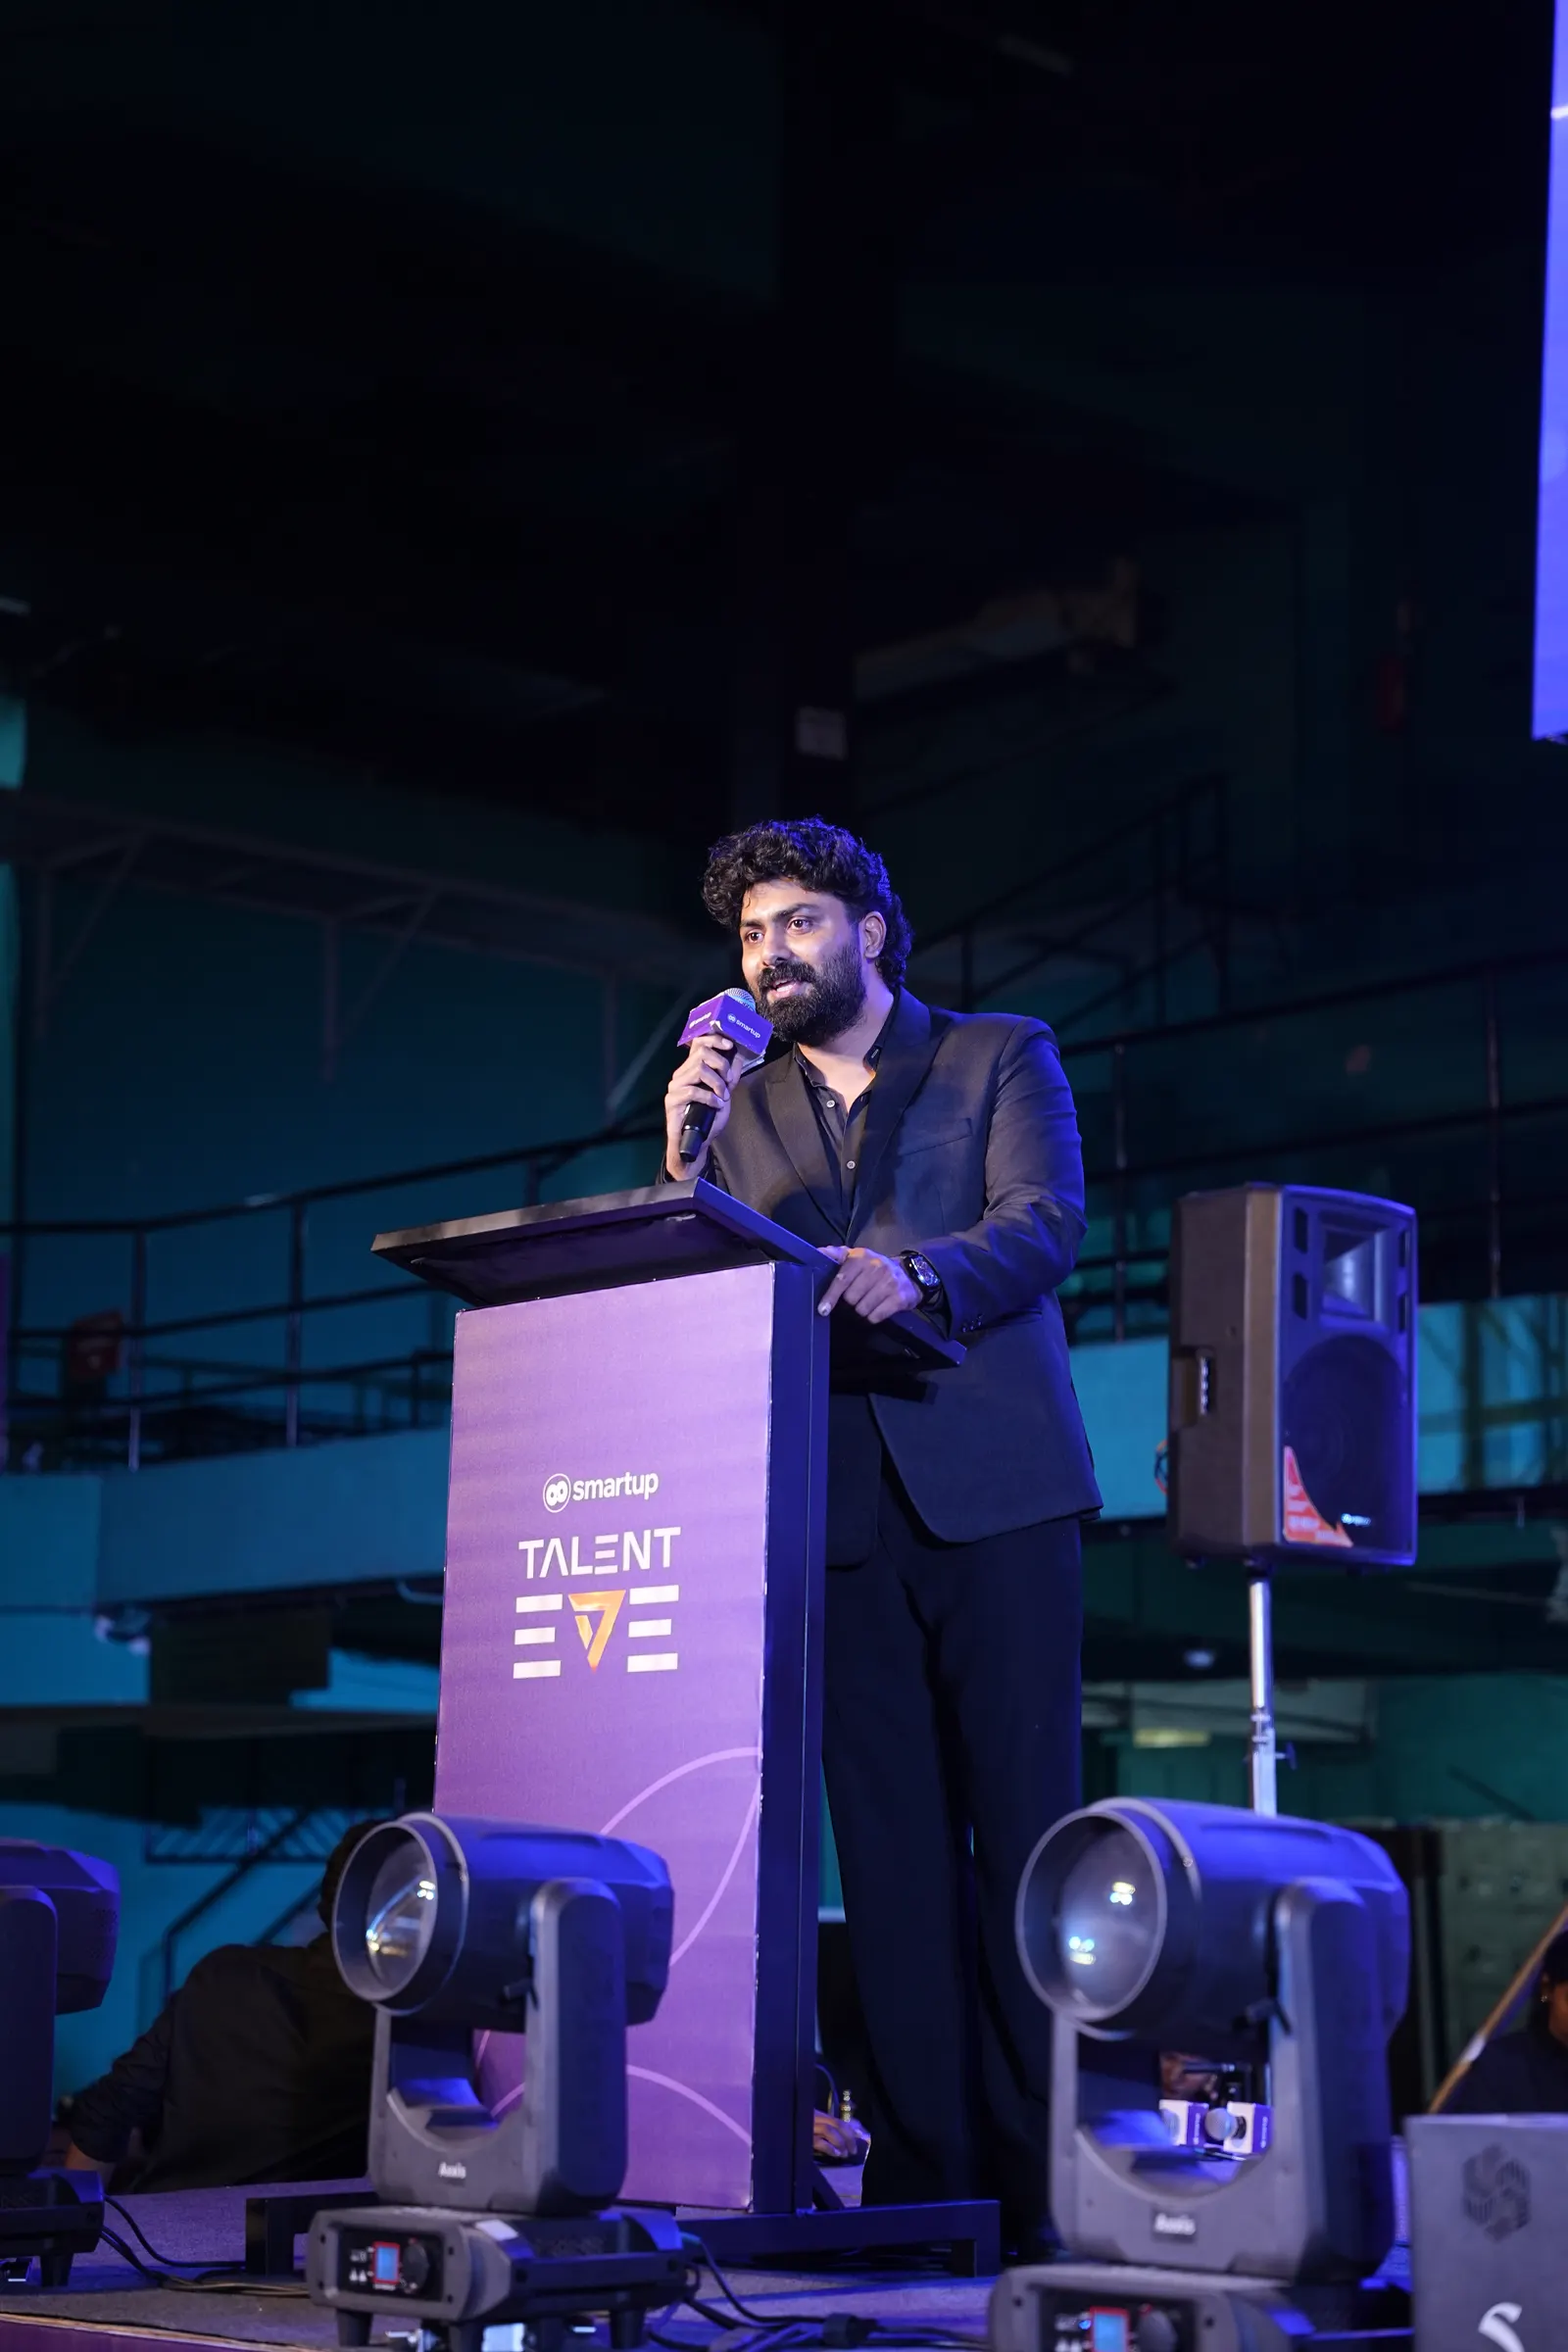
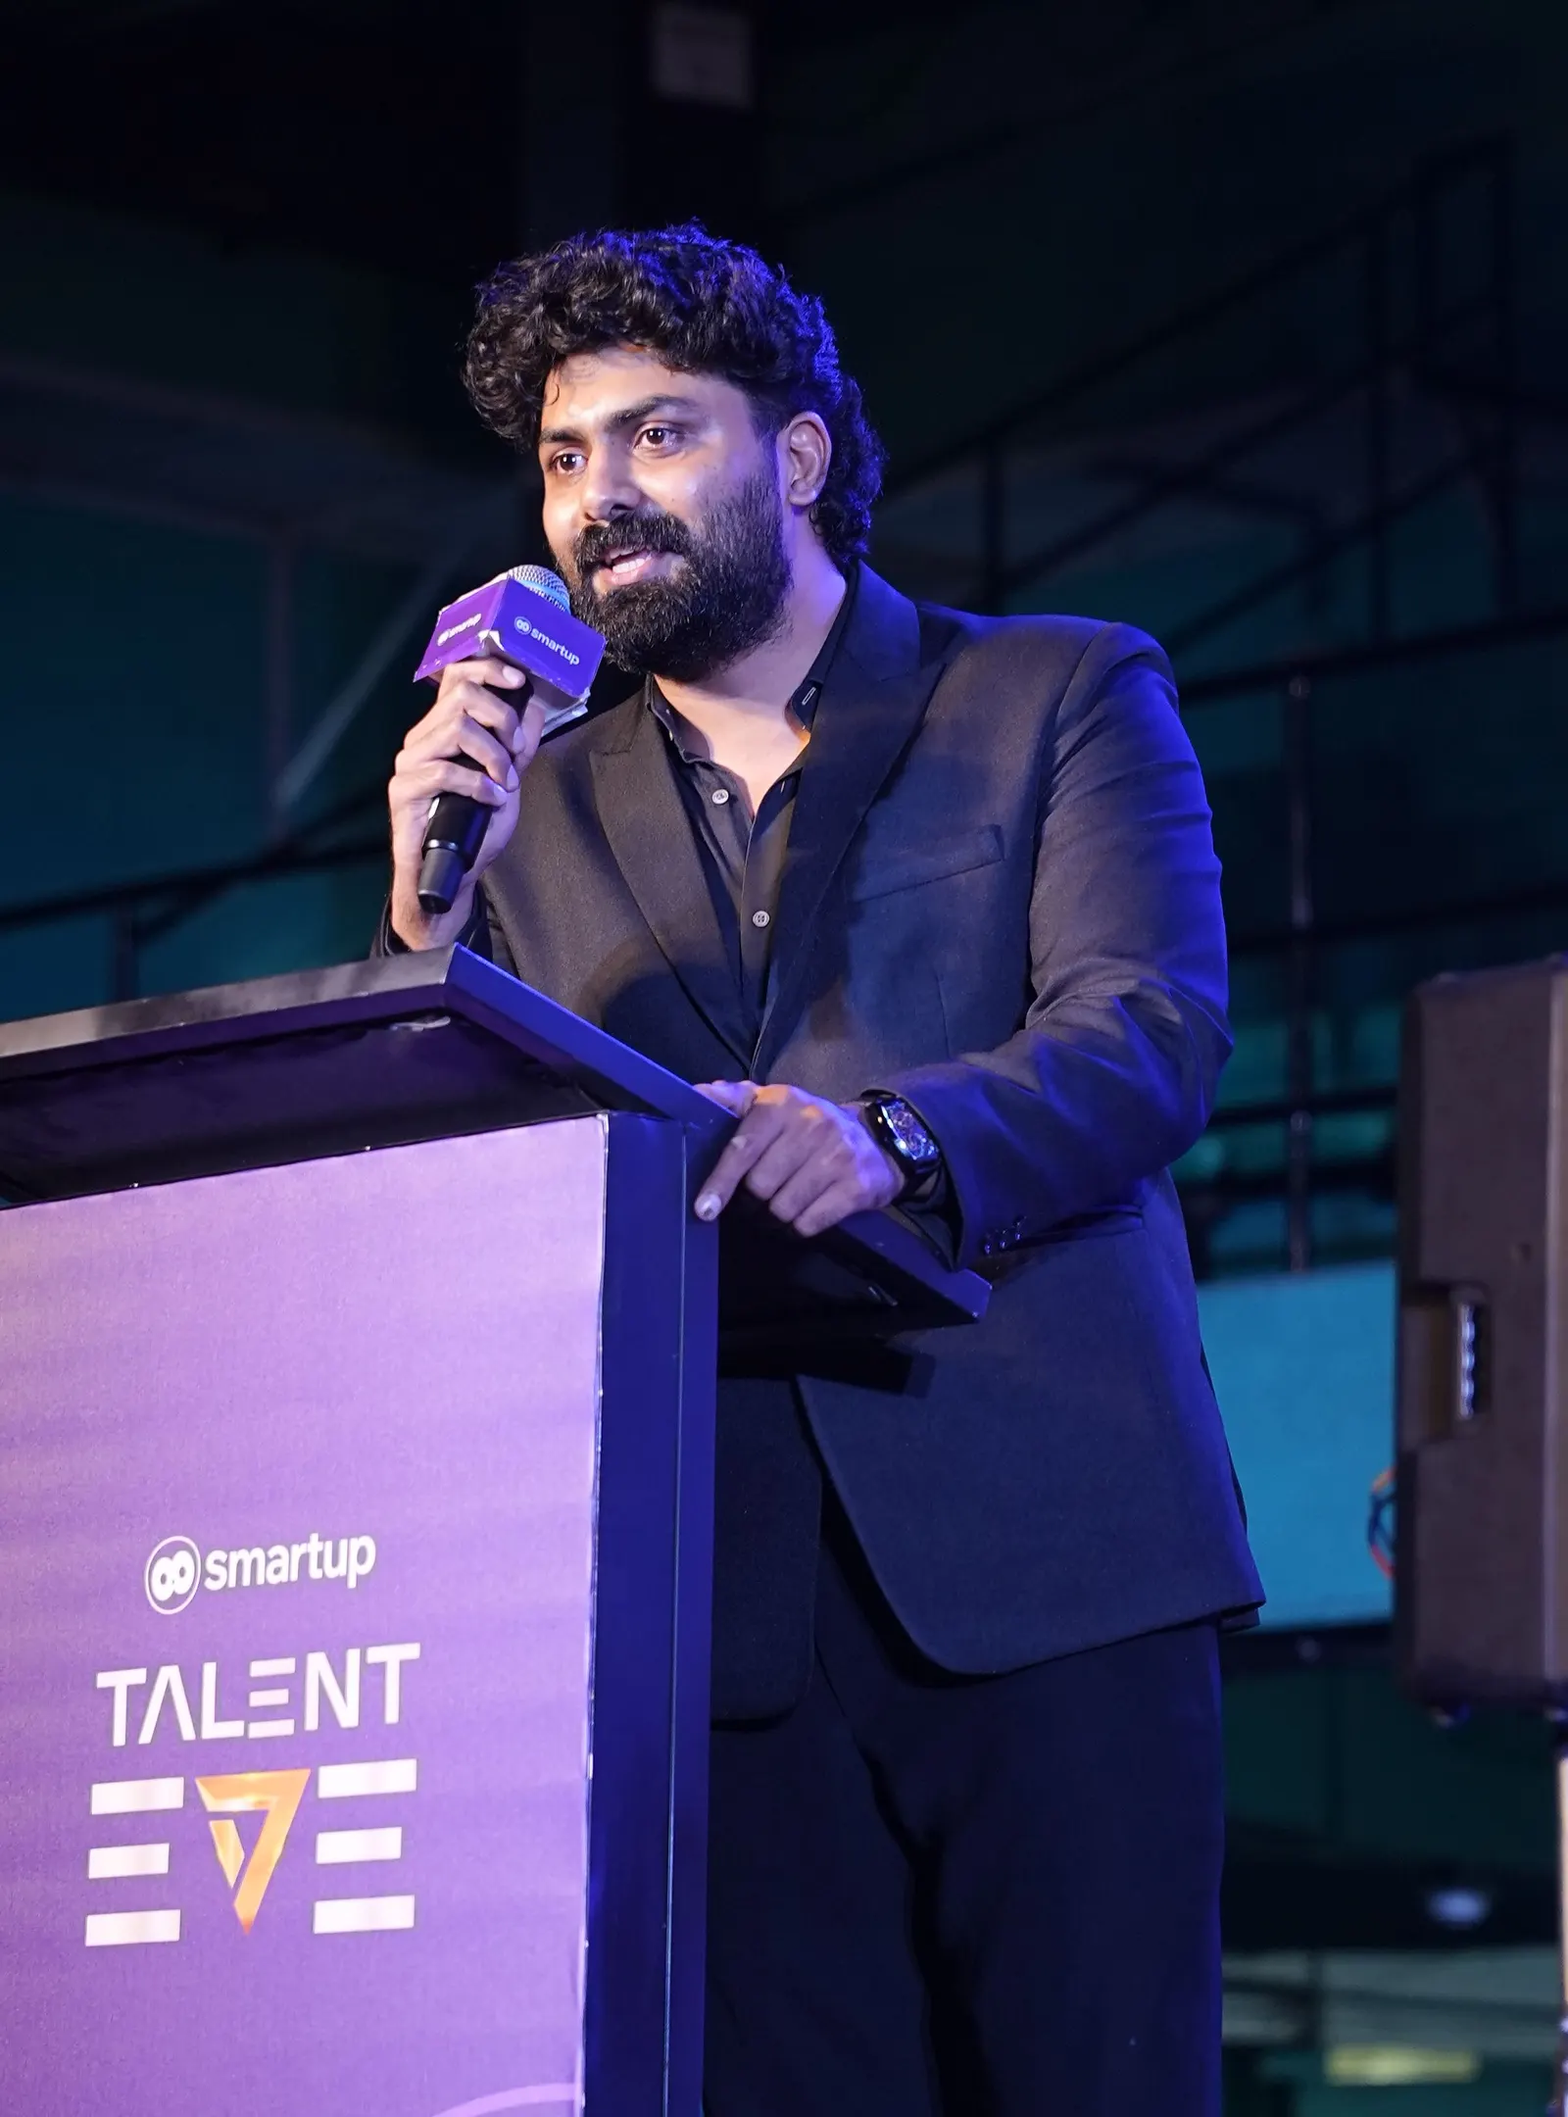
Add page hero, click-to-load YouTube and the Founders page

diff --git a/tests/e2e/youtube.spec.ts b/tests/e2e/youtube.spec.ts
@@ -1,0 +1,19 @@
+import { test, expect } from '@playwright/test';
+
+test('no YouTube player loads until a video is tapped', async ({ page }) => {
+  const youtubeScripts: string[] = [];
+  page.on('request', r => { if (/youtube\.com|youtube-nocookie\.com/.test(r.url()) && r.resourceType() !== 'image') youtubeScripts.push(r.url()); });
+  await page.goto('/founders');
+  await expect(page.locator('iframe')).toHaveCount(0);
+  expect(youtubeScripts).toEqual([]);
+  await page.locator('[data-yt] a').first().click();
+  await expect(page.locator('iframe').first()).toHaveAttribute('src', /^https:\/\/www\.youtube-nocookie\.com\/embed\/[\w-]{11}\?autoplay=1/);
+});
+
+test('without JavaScript a video opens on YouTube', async ({ browser }) => {
+  const context = await browser.newContext({ javaScriptEnabled: false });
+  const page = await context.newPage();
+  await page.goto('http://127.0.0.1:4173/founders');
+  await expect(page.locator('[data-yt] a').first()).toHaveAttribute('href', /^https:\/\/www\.youtube\.com\/watch\?v=/);
+  await context.close();
+});

diff --git a/src/scripts/youtube.ts b/src/scripts/youtube.ts
@@ -1,0 +1,20 @@
+/** Swaps a YouTube link for a privacy-enhanced player only after the visitor taps it. */
+export function initYouTube() {
+  document.querySelectorAll<HTMLElement>('[data-yt]').forEach(figure => {
+    const link = figure.querySelector<HTMLAnchorElement>('a.yt-frame');
+    const id = figure.dataset.yt;
+    if (!link || !id || !/^[\w-]{11}$/.test(id)) return;
+    link.addEventListener('click', event => {
+      event.preventDefault();
+      const iframe = document.createElement('iframe');
+      iframe.src = `https://www.youtube-nocookie.com/embed/${id}?autoplay=1&rel=0`;
+      iframe.title = link.dataset.ytTitle ?? 'YouTube video';
+      iframe.allow = 'autoplay; encrypted-media; picture-in-picture; fullscreen';
+      iframe.allowFullscreen = true;
+      const frame = document.createElement('div');
+      frame.className = link.className;
+      frame.append(iframe);
+      link.replaceWith(frame);
+    });
+  });
+}

diff --git a/src/scripts/site.ts b/src/scripts/site.ts
@@ -3,11 +3,13 @@ import { initMotion } from './motion';
 import { initTimelines } from './timeline';
 import { initTabs } from './tabs';
 import { initVideos } from './video';
+import { initYouTube } from './youtube';
 
 const reduceMotion = window.matchMedia('(prefers-reduced-motion: reduce)').matches;
 initMenu(reduceMotion);
 initTabs();
 initVideos();
+initYouTube();
 initMotion(reduceMotion);
 initTimelines(reduceMotion);
 (window as unknown as { __siteReady: boolean }).__siteReady = true;

diff --git a/tests/e2e/pages.ts b/tests/e2e/pages.ts
@@ -1,1 +1,1 @@
-export const PAGES = ['/', '/story', '/does-not-exist'];
+export const PAGES = ['/', '/story', '/founders', '/does-not-exist'];
